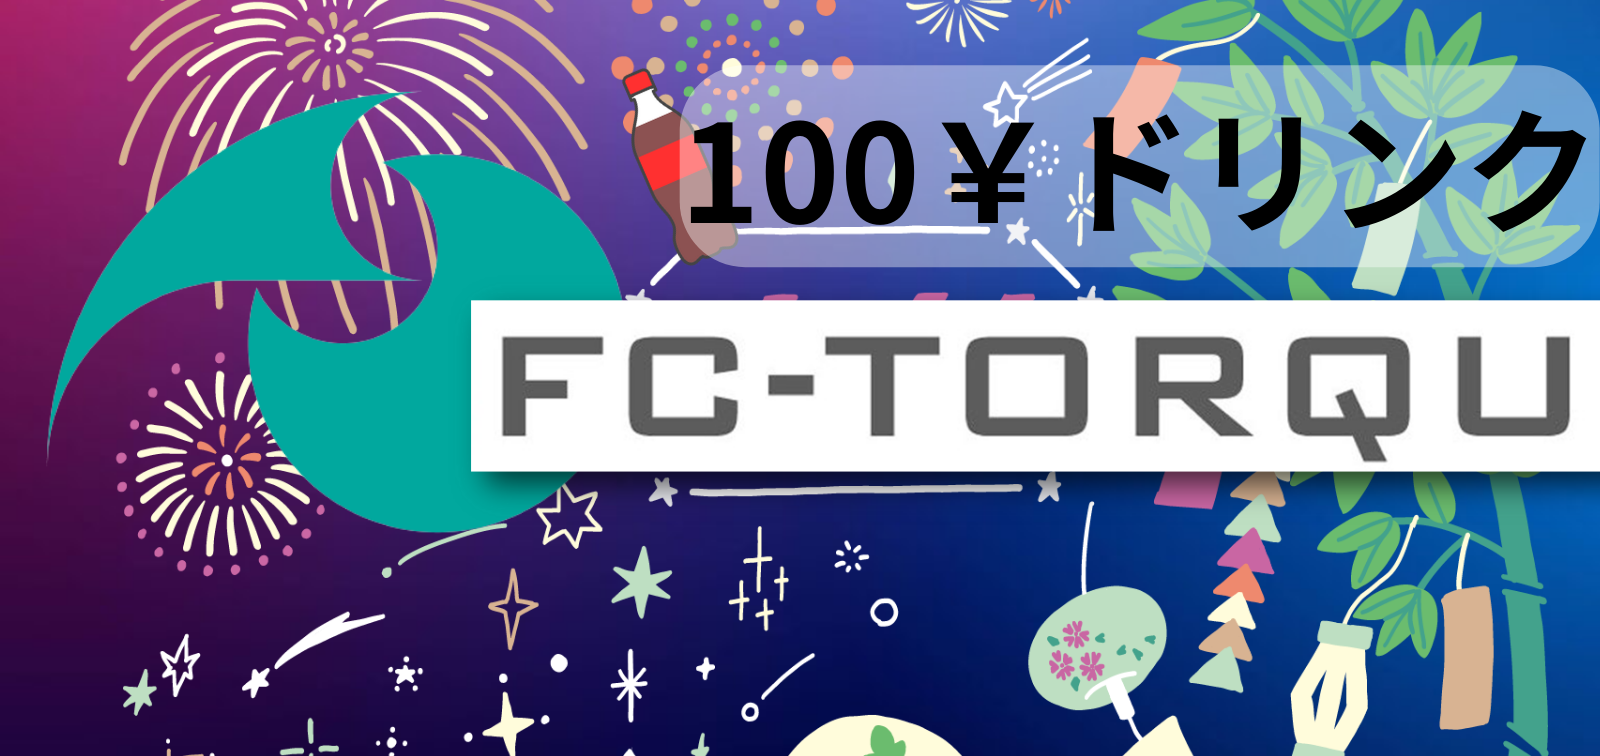
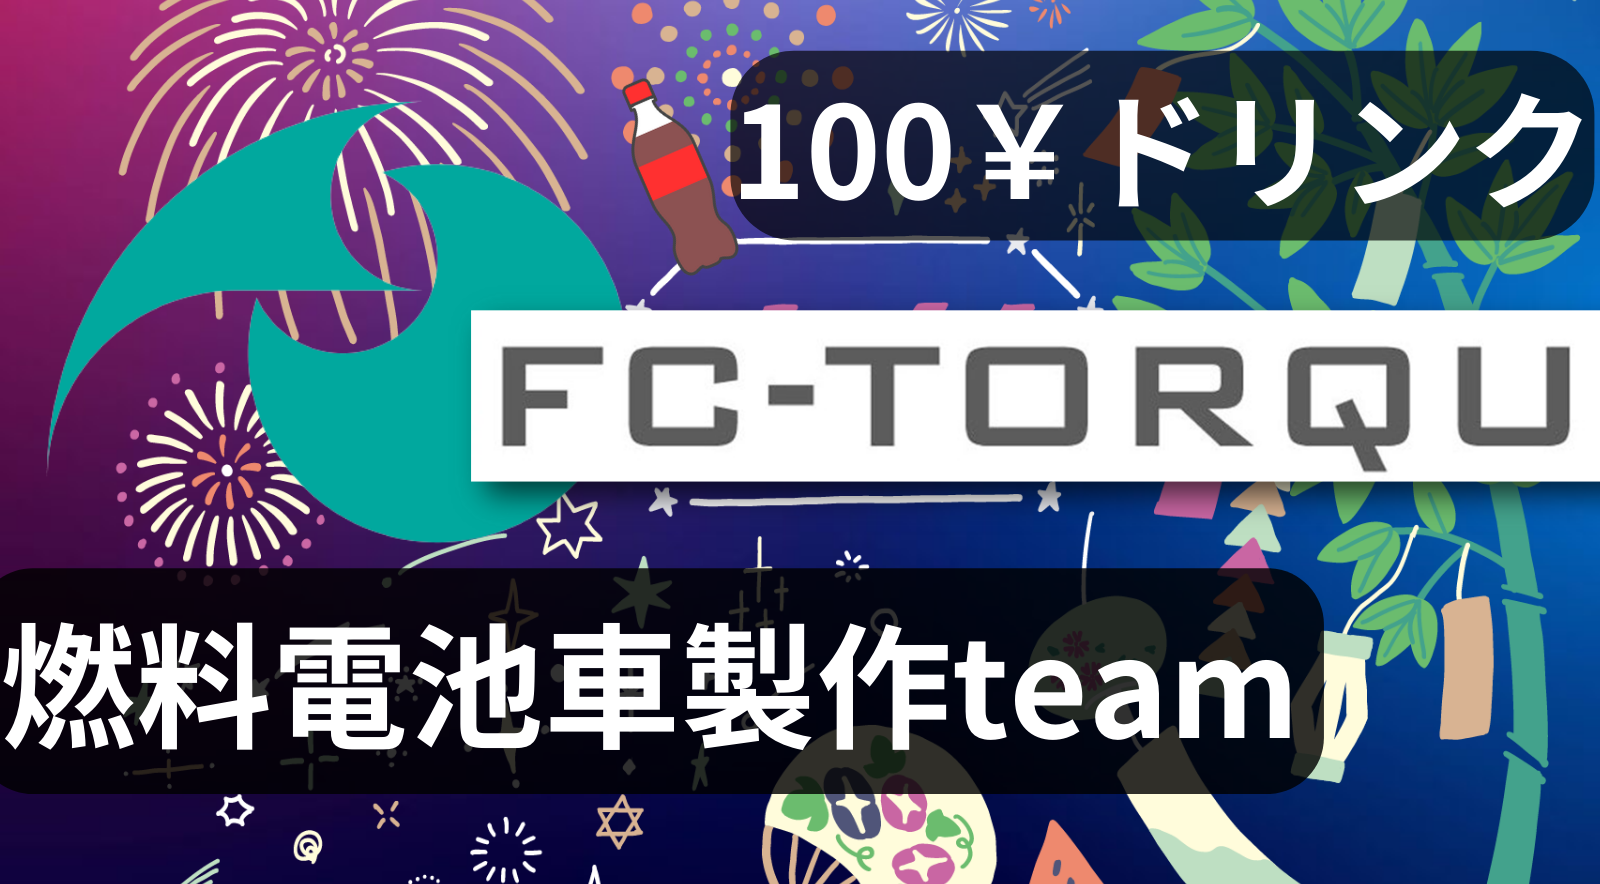
update without place

diff --git a/FCTECOFES/style.css b/FCTECOFES/style.css
@@ -5,7 +5,9 @@ font-family:'Open Sans',sans-serif;
 font-size:15px;
 letter-spacing:2px;
 }
-img{margin:2px;}
+img{margin:2px;
+  max-width:100%;}
+
 .links, .dt {
 text-align: center;
 margin-top: 14px;
@@ -35,22 +37,95 @@ font-size:19px;
   
 }
 
-.hot{
-  text-align: center;
-margin-top: 14px;
-padding: 20px;
-border: 1px solid #F9B785;
-border-width: 2px;
-width: 290px;
-display: block;
-margin-left: auto;
-margin-right: auto;
-border-radius: 40px;
-font-size:19px;
-  
-  
+
+/*--------------------------------------
+カード型_06
+--------------------------------------*/
+.l-wrapper_06 {
+  margin: 1rem auto;
+ margin-top:1px;
+  width: 95%;
+  text-align:left;
+}
+
+/* .l-wrapper_06:hover {
+  transform: translateY(-5px);
+  box-shadow: 0 7px 34px rgba(50,50,93,.1), 0 3px 6px rgba(0,0,0,.08);
+  transition: all .5s;
+}
+*/
+
+.card_06 {
+  background:rgba(240, 248, 255, 0.9) ;
+  border-radius: 25px;
+  box-shadow: 0 2px 5px #cccccc;
+}
+
+.card-img_06 {
+  display:block;
+  margin:auto;
+  border-radius: 5px 5px 0 0;
+  max-height: 200px;
   
 }
+.card-content_06 {
+ padding: 8px 15px 15px;
+}
+.card-content_drink {
+  padding: 8px 3px 3px;
+}
+.card-title_06 {
+  font-size: 1.2em;
+  color: #333;
+  font-weight: 700;
+}
+.card-text_06 {
+  color: rgb(58, 56, 56);
+  font-weight: bold;
+  font-size: 1rem;
+  line-height: 1.5;
+  margin-bottom: 0.2em;
+}
+/*.card-link_06 {
+  text-align: center;
+  border-top: 1px solid #eee;
+  padding: 20px;
+}
+.card-link_06 a {
+  text-decoration: none;
+  color: #4f96f6;
+  margin: 0 10px;
+}
+.card-link_06 a:hover {
+  color: #6bb6ff;
+}
+*/
+
+.card-content_06 p {
+  margin-bottom:0;
+}
+/*CARDS 6*/
+
+
+/*cards scroll*/
+
+.cards {
+  display: flex;
+  flex-wrap: wrap;
+  gap: 5px;
+  overflow: auto;
+  margin-top: 0px;
+}
+.card {
+  height: 200px;
+  max-width:100px;
+  background-color: #7effb2;
+  border-radius: 5px;
+  flex: 1 0 56px;
+}
+
+/*cards scroll*/
+
 
 
 
@@ -76,12 +151,17 @@ color: skyblue;
 background: black;
 }
 
+h2{
+   margin-bottom: 0px;}
 
 footer{
 background-color:rgba(24, 21, 21, 0.438);
 height:auto;  
 margin-top:7px;
 margin-bottom:5px;
+margin-left: auto;
+margin-right: auto;
+text-align: center;
 }
 .small{font-size: small;
 }

diff --git a/FCTECOFES/index.html b/FCTECOFES/index.html
@@ -15,9 +15,10 @@
     <div class="card_06">
       <img class="card-img_06" src="0508_dtplayouteyecatch.jpg" alt="">
       <div class="card-content_06">
-        <p>FC-Torqueは学生主体の燃料電池製作チームです。</p>
-        <p>水素燃料電池の製作および電気自動車の製作に取り組んでいます。実際に製作した電気自動車1号機を展示しています！！</p>
-        <p>製作中の2号機も！！</p>
+        <p class="card-title_06">FC-TORQUEとは？</p>
+        <p class="card-text_06">学生主体の燃料電池製作チームです。</p>
+        <p class="card-text_06">水素燃料電池の製作および電気自動車の製作に取り組んでいます。実際に製作した電気自動車1号機を展示しています！！</p>
+        <p class="card-text_06">製作中の2号機も！！</p>
         
       </div>
     </div>
@@ -27,6 +28,23 @@
    <details class="dt"><summary>燃料電池自動車とは？</summary><p>水素と酸素が反応して発生する電気を用いて走るクリーンな電気自動車です。</p>
   <p>電気自動車に並ぶガソリン車に代わる選択肢として注目されています。詳しくは部員まで！！</p>
   </details>
+</div>
+
+<h2 align="center">Beverage Menu!<br>全品100￥</h2>
+<div class="l-wrapper_06">
+  <div class="card_06">
+    <div align="center" class="card-content_06">
+      <p class="card-text_06">カルピス</p>
+      <p class="card-text_06">コーラ</p>
+      <p class="card-text_06">いろはす</p>
+      <p class="card-text_06">お茶</p>
+      
+    </div>
+  </div>
+</div>
+
+
+
    <footer>
     <img width="290px" height="262px" src="" alt="qrcode"> <!--put QR here--->
     <details><summary>本サイトについて➡</summary><p>本サイトは兵庫県立大学の学祭ecofes2023に向けて,FC-Torqueの広報のために作成されたものです.<br></p>
